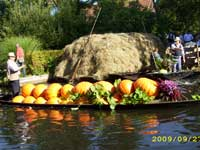
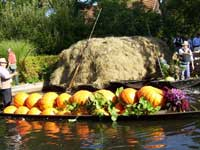
Daten aus Bildern entfernt; Westnummer hinzugefuegt; Baeder eingebaut in Linkliste und Freizeit

diff --git a/css/style.css b/css/style.css
@@ -241,6 +241,11 @@ html, body
 		font-family: Verdana, sans-serif;		
 	}
 	
+#content_wrapper td span.smaller
+	{
+		font-size: 11px;
+	}
+	
 #content_wrapper p.author
 	{
 		margin-top: 0px;

diff --git a/freizeit.php b/freizeit.php
@@ -12,6 +12,9 @@
 					</ul>
 					<h2>Weiterhin bieten sich u.a. für einen Besuch an:</h2>
 					<ul>
+						<li>Spreewald-Therme</li>
+						<li>Fläming-Therme</li>
+						<li>Freibad Elsthal</li>
 						<li>Schloss Wiepersdorf</li>
 						<li>Das Freizeitgebiet Körbaer See</li>
 						<li>Der Wildpark Johannismühle</li>
@@ -22,6 +25,7 @@
 					</ul>
 					<p>Wer sich sportlich betätigen möchte, findet in Dahme ein Tennis-Center und Freibad, in Senftenberg eine Skihalle, auch Walking und Nordic-Walking sind in der Umgebung und auf dem Flaeming-Walk möglich.</p>
 					<p>Angel- und Jagdmöglichkeiten (Reh-, Rot- und Schwarzwild) vorhanden.					Pilze sammeln ganz in der Nähe.</p>
+					<p>Immer einen Besuch wert sind die Thermalbäder "Spreewaldtherme" und "Fläming Therme" mit Saunalandschaft und Therapiebecken. Ein Freibad finden Sie in Luckenwalde <a href="http://www.freibad-elsthal.de/" alt="http://www.freibad-elsthal.de/">(Freibad Elsthal)</a>.</p>
 					<p>Weitere Infos/Prospekte für Ihre Freizeitgestaltung bieten wir Ihnen gerne vor Ort!</p>
 				</div>
 				<div class="box_image_right">
@@ -29,6 +33,12 @@
 				</div>
 				<div class="box_text_right"><p>Die &laquo; Flaeming-Skate &raquo; (Deutschlands längster Rad- und Skateweg, ca. 200 km) ist bequem von unserem Haus aus erreichbar!</p>
 				<p class="smaller">(Bild von Lienhard Schulz)</p>
+				</div>
+				<div class="box_image_right">
+					<img src="img/spreewald_therme.jpg" alt="Spreewaldtherme" >
+				</div>
+				<div class="box_text_right"><p>In der Wellness- und gesundheitsorientierten Spreewald Therme verfliegen die Sorgen und Beschwerden des Alltags wie von alleine.</p>
+				<p class="smaller">(Bild von http://www.spreewald-therme.vis.de/)</p>
 				</div>
 				<div class="clearer"></div>
 			</div>

diff --git a/links.php b/links.php
@@ -42,6 +42,16 @@
 								<p class="link_p">Tropical Islands<br/><a href="http://www.my-tropical-islands.com/" alt="http://www.my-tropical-islands.com/">hier klicken</a></p>
 							</td>
 						</tr>
+						<tr>
+							<td>
+								<div class="link_pic"><img src="img/link_spreetherme.png" alt=""></div>
+								<p class="link_p">Spreewald-Therme<br/><a href="http://www.spreewald-therme.vis.de/" alt="http://www.spreewald-therme.vis.de/">hier klicken</a></p>
+							</td>
+							<td>
+								<div class="link_pic"><img src="img/link_flaeming.png" alt=""></div>
+								<p class="link_p">Fläming-Therme<br/><a href="http://www.flaeming-therme.de/" alt="http://www.flaeming-therme.de/">hier klicken</a></p>
+							</td>
+						</tr>
 					</table></div>					
 				<div class="clearer"></div>
 			</div>

diff --git a/preise.php b/preise.php
@@ -18,8 +18,12 @@
 							<td>Sigrid Heumann</td>
 						</tr>
 						<tr>
-							<td>Tel/Fax:</td>
+							<td>Tel/Fax: <span class="smaller">(Rietdorf)</span></td>
 							<td>035451-18664</td>
+						</tr>
+						<tr>
+							<td>Tel/Fax: <span class="smaller">(Löhnberg)</span></td>
+							<td>06471-61231</td>
 						</tr>
 						<tr>
 							<td>Email:</td>

diff --git a/startseite.php b/startseite.php
@@ -20,8 +20,12 @@
 							<td>Sigrid Heumann</td>
 						</tr>
 						<tr>
-							<td>Tel/Fax:</td>
+							<td>Tel/Fax: <span class="smaller">(Rietdorf)</span></td>
 							<td>035451-18664</td>
+						</tr>
+						<tr>
+							<td>Tel/Fax: <span class="smaller">(Löhnberg)</span></td>
+							<td>06471-61231</td>
 						</tr>
 						<tr>
 							<td>Email:</td>
